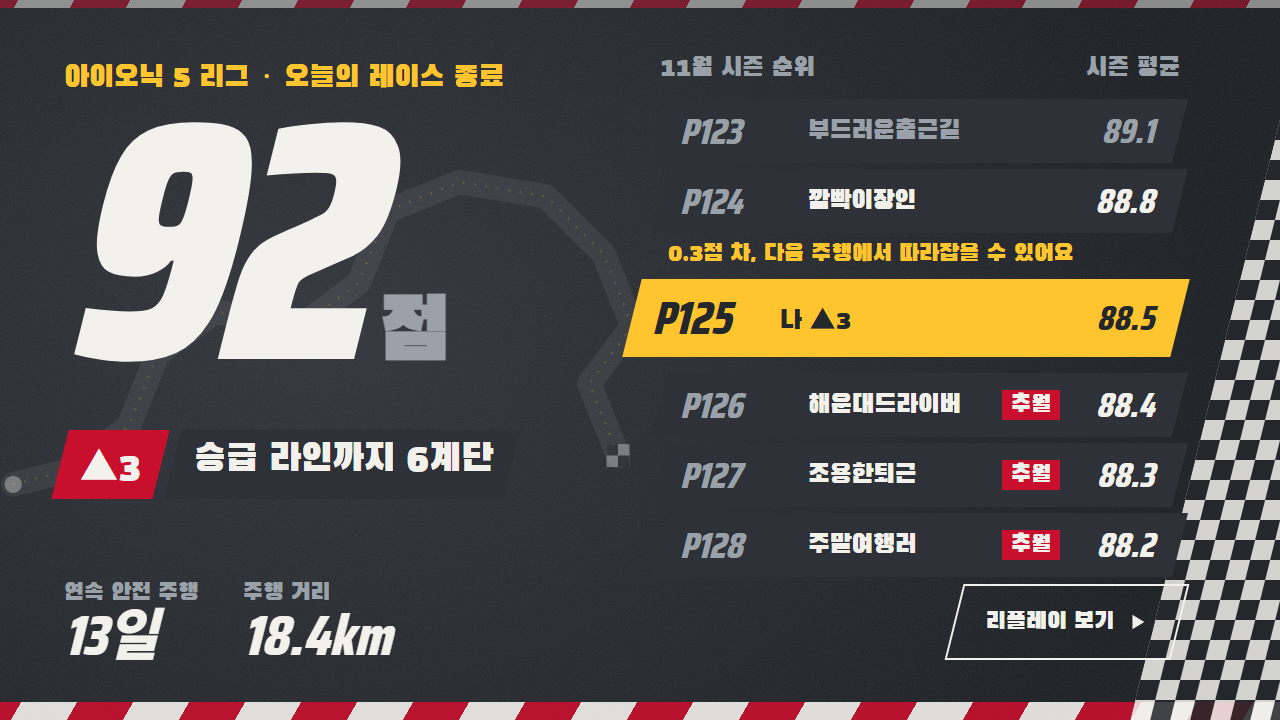
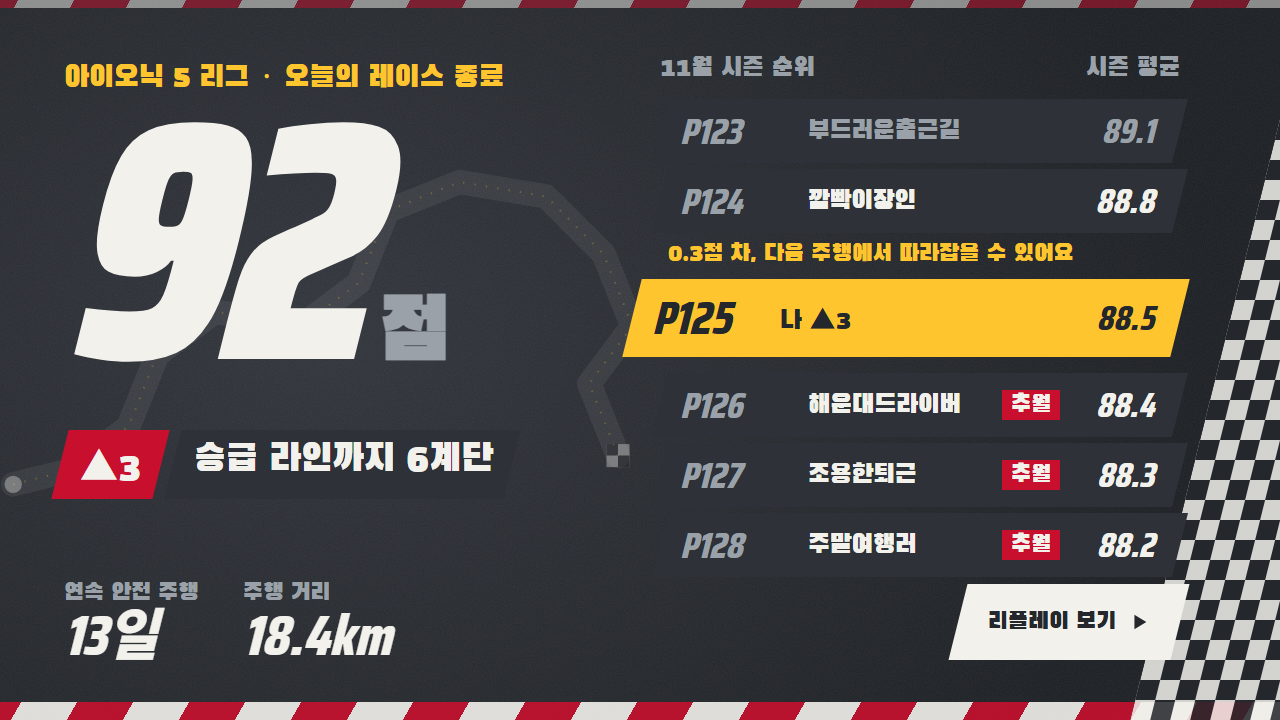
style(mockups): filled replay button

Changed region(s): [[0.7188, 0.7944, 0.9375, 0.9167]]

diff --git a/mockups/tokens.css b/mockups/tokens.css
@@ -56,6 +56,6 @@ body {
 /* 결과 카드 → 리플레이 버튼 */
 .replay-btn {
   position: absolute; display: inline-flex; align-items: center; gap: 12px; height: 76px; padding: 0 30px;
-  border: 2px solid var(--white); color: var(--white); text-decoration: none; font-size: 24px; transform: skewX(-14deg);
+  background: var(--white); color: var(--asphalt); text-decoration: none; font-size: 24px; transform: skewX(-14deg);
 }
 .replay-btn > * { transform: skewX(14deg); }
